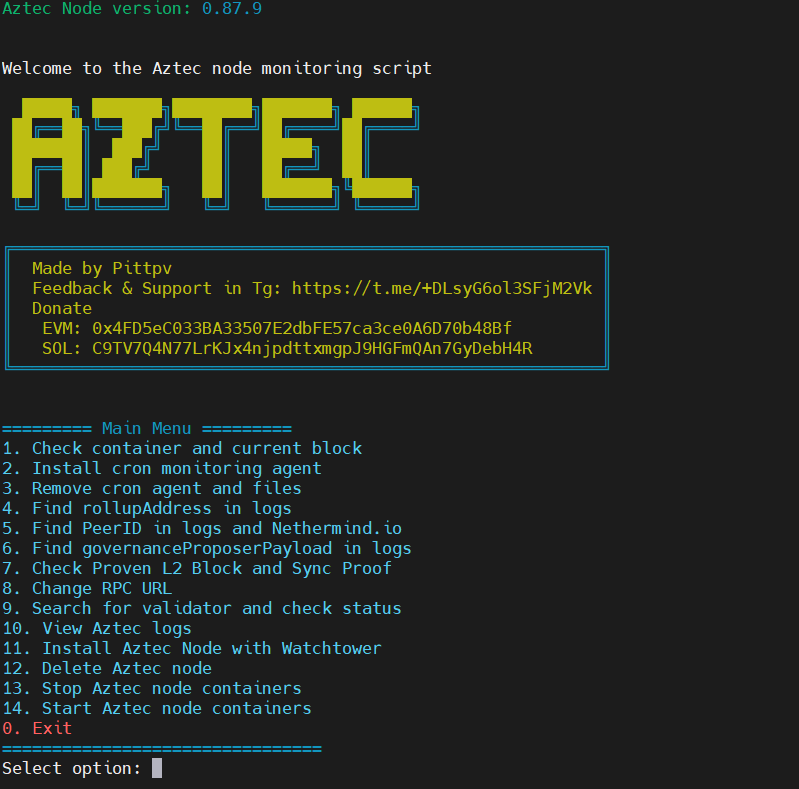
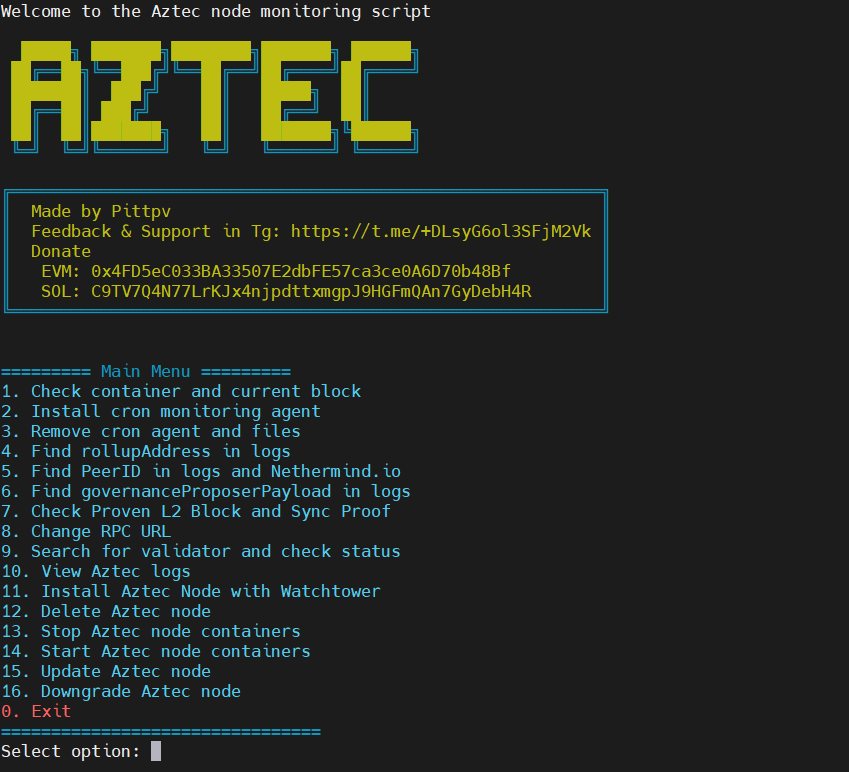
release v.1.11.0

Changed region(s): [[0.0, 0.0, 0.781, 0.9948]]

diff --git a/README.md b/README.md
@@ -33,13 +33,22 @@
 | 🌐 **Языки** | Поддержка языков Английский/Русский/Турецкий |
 | ⚙ **RPC** | Гибкая настройка RPC подключения |
 
-## 📌 Последние обновления 28-07-2025
-- Обновлен скрипт установки ноды Aztec с Watchtower. Во время установки скрипт уточнит "Вы хотите запустить несколько валидаторов? (y/n)"
-    - Установка в режиме мультивалидатора (до 10 валидаторов на одну ноду)
-    - Установка в режиме одного валидатора
+## 📌 Последние обновления 29-07-2025
+- Добавлена функция Обновления ноды Aztec. Функция обновляет ноду моментально, не дожидаясь автоматического обновления от Watchtower.
+    - Также используйте эту опцию, если вы делали даунгрейд и нужно все вернуть обратно.
+    - Проверяет `docker-compose.yml` и заменяет тег на `latest`
+- Добавлена функция Даунгейда версии ноды Aztec. Функция показывает все версии ноды из Docker Hub, позволяя откатиться на любую выбранную из списка версию.
+    - Выбор нужной версии
+    - Обновление файла `docker-compose.yml`
+    - Остановка, загрузка и запуск контейнерова
 
 <details>
 <summary>📅 История версий</summary>
+
+### 28-07-2025
+- Обновлен скрипт установки ноды Aztec с Watchtower. Во время установки скрипт уточнит "Вы хотите запустить несколько валидаторов? (y/n)"
+    - Установка в режиме мультивалидатора (до 10 валидаторов на одну ноду)
+    - Установка в режиме одного валидатора
 
 ### 21-07-2025
 - Обновлена команда запуска ноды в CLI (validatorPrivateKey**s**) для версии ноды 1.1.0 и выше.

diff --git a/en/README.md b/en/README.md
@@ -33,13 +33,22 @@ This script provides a comprehensive solution for launching (via docker-compose 
 | 🌐 **Languages** | Language support English/Russian/Turkish                  |
 | ⚙ **RPC**       | Flexible RPC endpoint configuration               |
 
-## 📌 Latest Updates 28-07-2025
-- Updated the Aztec node installation script with Watchtower. During installation, the script will ask, "Do you want to run multiple validators? (y/n)"
-    - Installation in multivalidator mode (up to 10 validators per node)
-    - Installation in single-validator mode
+## 📌 Latest Updates 29-07-2025
+- Added the Aztec Node Update function. The function updates the node instantly without waiting for automatic updates from Watchtower.
+    - Also use this option if you performed a downgrade and need to revert back.
+    - Checks `docker-compose.yml` and replaces the tag with `latest`
+- Added the Aztec Node Downgrade function. The function shows all node versions from Docker Hub, allowing rollback to any selected version from the list.
+    - Selection of desired version
+    - Updating the `docker-compose.yml` file
+    - Stopping, downloading and launching containers
 
 <details>
 <summary>📅 Version History</summary>
+
+### 28-07-2025
+- Updated the Aztec node installation script with Watchtower. During installation, the script will ask, "Do you want to run multiple validators? (y/n)"
+    - Installation in multivalidator mode (up to 10 validators per node)
+    - Installation in single-validator mode
 
 ### 21-07-2025
 - Updated node launch command in CLI (validatorPrivateKey**s**) for node version 1.1.0 and above
